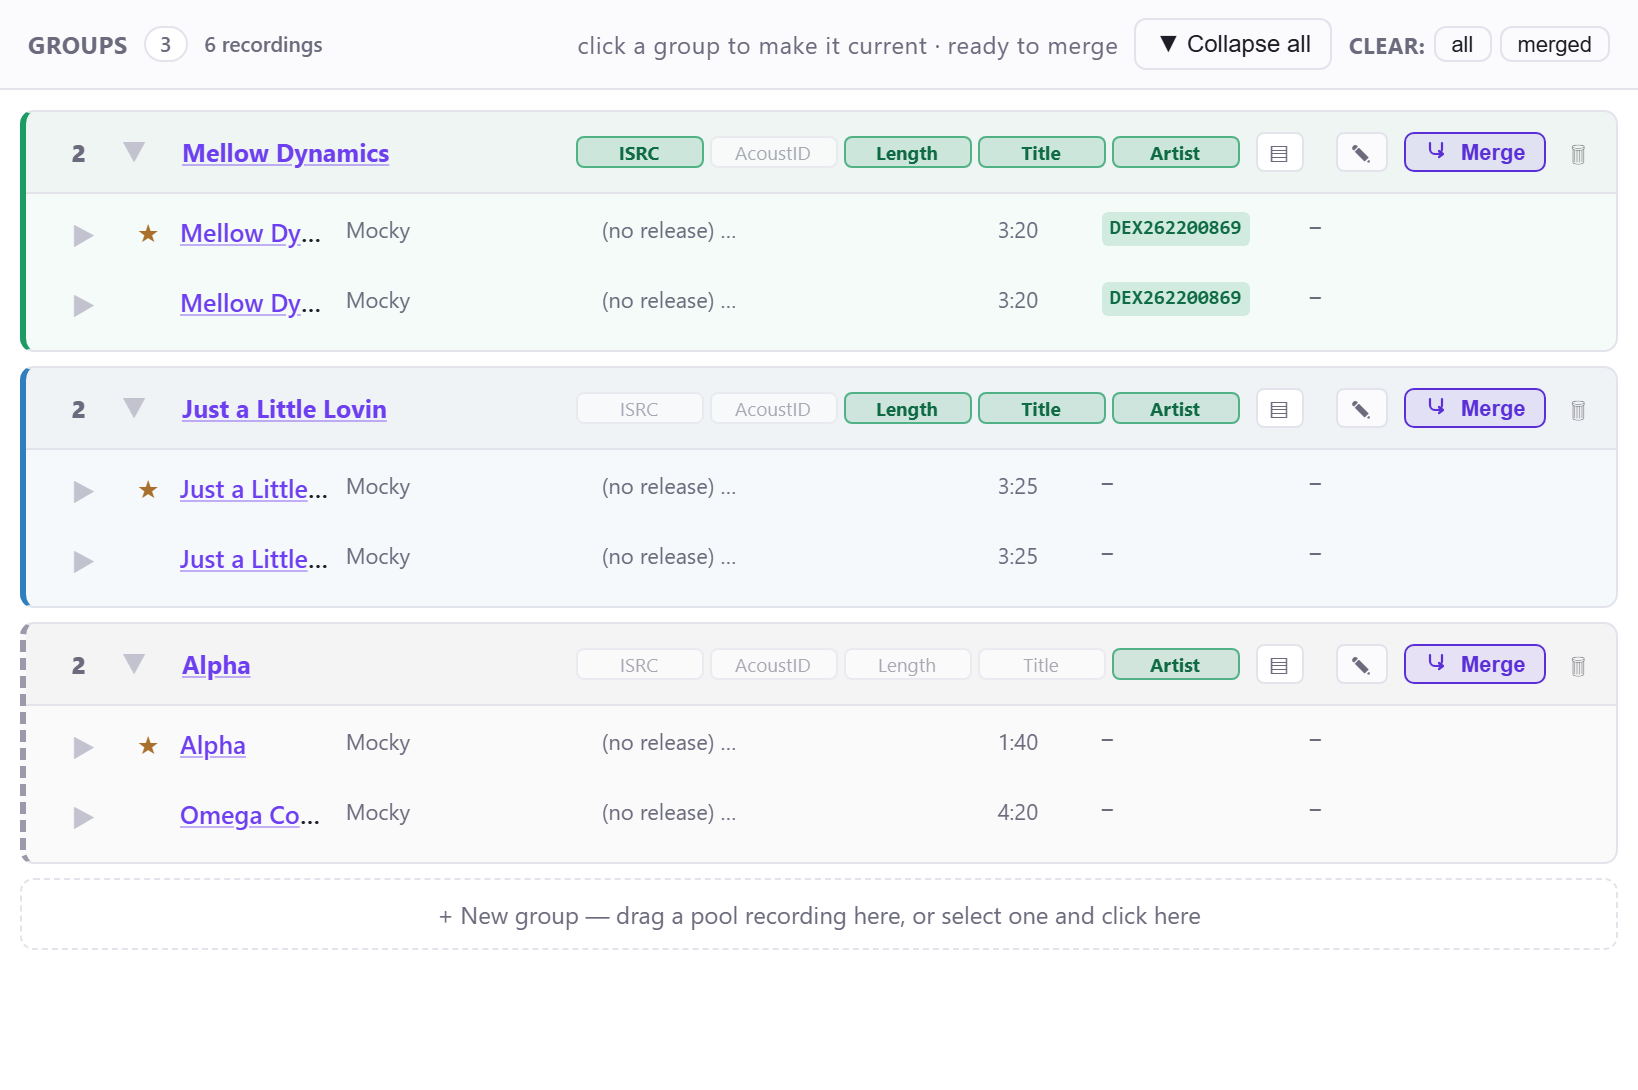
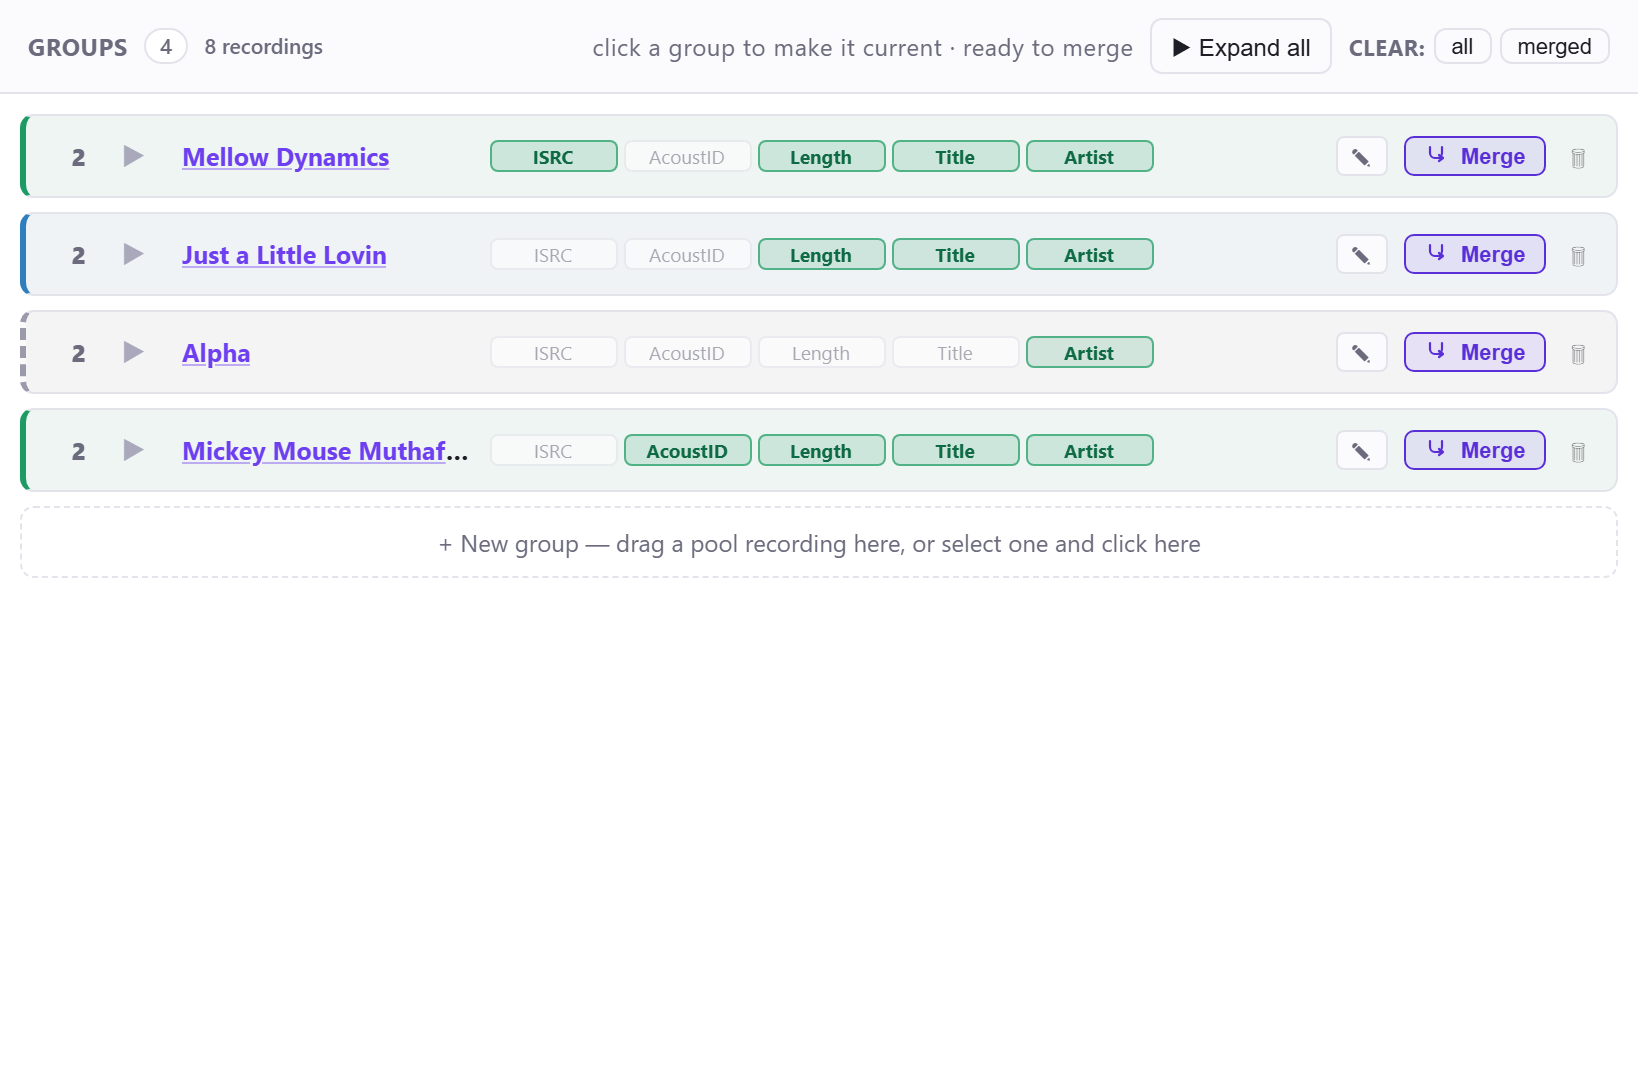
fusion: centre the chip matrix on the card (#529)
"matrix is not in the middle" — it was at a fixed x, which made it align
across cards but left it sitting well left of centre with a wide gap
before the actions. Fixed offset is not the same as centred, and only
the latter is what was asked for.

The header is a three-track grid now, 1fr | auto | 1fr: title block
left, chips in the centre track, actions right. Equal side tracks put
the matrix on the card's true centre — measured 1px off — and, because
centring no longer depends on what precedes it, the title no longer
needs a fixed width to keep the columns lined up. Long titles get the
whole left track instead of being cut to an arbitrary 260px.

The probe asserted "same x on every card", which passed throughout while
the thing majkinetor actually wanted was untrue. It now measures the
offset between the chip block's centre and the card's centre.

diff --git a/userscripts/fusion/fusion.user.js b/userscripts/fusion/fusion.user.js
@@ -1,7 +1,7 @@
 // ==UserScript==
 // @name         Fusion
 // @namespace    https://musicbrainz.org/
-// @version      2026.8.21.194909
+// @version      2026.8.21.195828
 // @description  Merge-recordings assistant for MusicBrainz: gather a pool of candidate recordings from a release / release group / recording page (or paste any MBID/URL), auto-match them into merge groups by ISRC / AcoustID / length / title+artist, review and adjust the groups, then submit the merges directly in the background — no MB merge page involved.
 // @author       majkinetor
[1 lines of base64/hex data omitted]
@@ -1471,7 +1471,10 @@ function fsStyle() {
         + '.fs-relband td{font-weight:600;background:rgba(0,0,0,.05);color:var(--fs-text)}'
         + '.fs-relload,.fs-relerr,.fs-relempty{padding:6px 9px;font-size:10.5px;color:var(--fs-muted)}'
         + '.fs-relerr{color:var(--fs-red)}'
-        + '.fs-gt{font-weight:700;font-size:12.5px;flex:0 1 260px;min-width:90px;white-space:nowrap;overflow:hidden;text-overflow:ellipsis}'
+        + '.fs-gt{font-weight:700;font-size:12.5px;min-width:0;white-space:nowrap;overflow:hidden;text-overflow:ellipsis}'
+        + '.fs-ghdr-grid{display:grid;grid-template-columns:1fr auto 1fr;align-items:center;gap:10px}'
+        + '.fs-ghl{display:flex;align-items:center;gap:8px;min-width:0}'
+        + '.fs-ghr{display:flex;align-items:center;gap:8px;justify-self:end}'
         + '.fs-gnum{width:20px;flex-shrink:0;text-align:right;font-weight:800;font-size:12px;color:var(--fs-muted);cursor:help}'
         + '.fs-sig span{box-sizing:border-box;width:64px;text-align:center}'
         + '.fs-tier-strict{border-left-color:#1c9b63;background:rgba(28,155,99,.045)}'
@@ -1987,18 +1990,27 @@ function groupCardHtml(group) {
         ? 'Grouped by hand — no cutoff level would have formed this group automatically'
         : 'Holds together at the "' + tier + '" cutoff' + (tier === 'loose' ? ' — it would not form at a stricter setting' : '');
     return '<div class="fs-gcard fs-gcard-' + confClass + ' fs-tier-' + tier + activeCls + (collapsed ? ' fs-gcard-collapsed' : '') + '" data-gid="' + group.id + '" title="' + escapeHtml(tierWhy) + '">'
-        + '<div class="fs-ghdr">'
+        // Three tracks — 1fr | auto | 1fr — so the chip matrix is centred on the
+        // CARD, not merely at a fixed offset after the title (#529: "matrix is
+        // not in the middle"). Equal side tracks also mean the centre column
+        // lands at the same x on every card without the title needing a fixed
+        // width, so long titles no longer have to be truncated to keep the
+        // matrix aligned.
+        + '<div class="fs-ghdr fs-ghdr-grid">'
+        + '<div class="fs-ghl">'
         + '<span class="fs-gnum" title="' + members.length + ' recording' + (members.length === 1 ? '' : 's') + ' in this group">' + members.length + '</span>'
         + '<span class="fs-ctog" data-act="toggle-card" title="' + (collapsed ? 'expand this group' : 'collapse this group') + '">' + (collapsed ? '▶' : '▼') + '</span>'
         + '<span class="fs-gt" title="' + escapeHtml(head ? head.title : '') + '">' + (head ? recLink(head.gid, head.title) : 'New group') + '</span>'
+        + '</div>'
         + '<div class="fs-sig">' + sigChips + '</div>'
+        + '<div class="fs-ghr">'
         + (collapsed ? '' : '<span class="fs-detbtn' + (groupAllExpanded(group) ? ' fs-detbtn-on' : '') + '" data-act="toggle-all-details" title="'
             + (groupAllExpanded(group) ? 'hide the release tables for every recording in this group' : 'show the release tables for every recording in this group') + '">'
             + '▤' + '</span>')
-        + '<div class="fs-sp"></div>'
         + noteBtn
         + '<button class="fs-mbtn ' + stateCls + '" type="button" data-act="merge-group" ' + (busy || done || tooFew ? 'disabled' : '') + '>' + stateLabel + '</button>'
-        + '<span class="fs-kill" data-act="delete-group" title="delete this group — members return to the pool" ' + (busy ? 'style="display:none"' : '') + '>🗑</span></div>'
+        + '<span class="fs-kill" data-act="delete-group" title="delete this group — members return to the pool" ' + (busy ? 'style="display:none"' : '') + '>🗑</span>'
+        + '</div></div>'
         + (collapsed ? '' : '<div class="fs-grows">' + rows + '</div>' + errMsg) + '</div>';
 }
 
